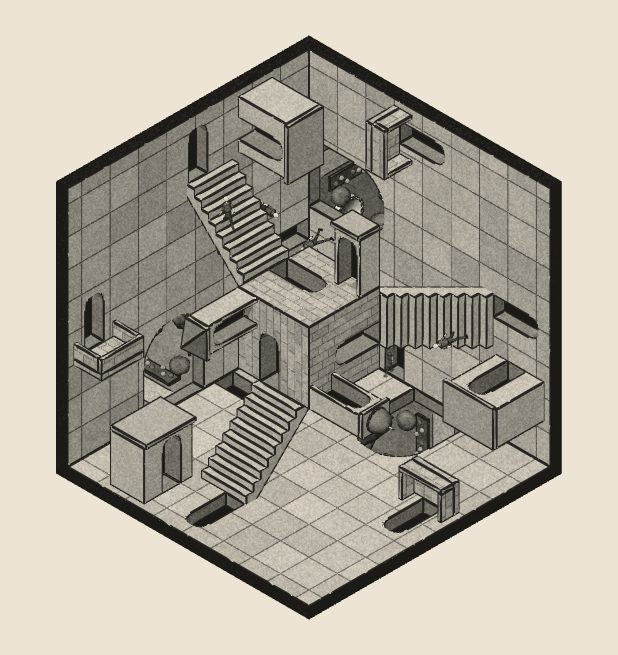
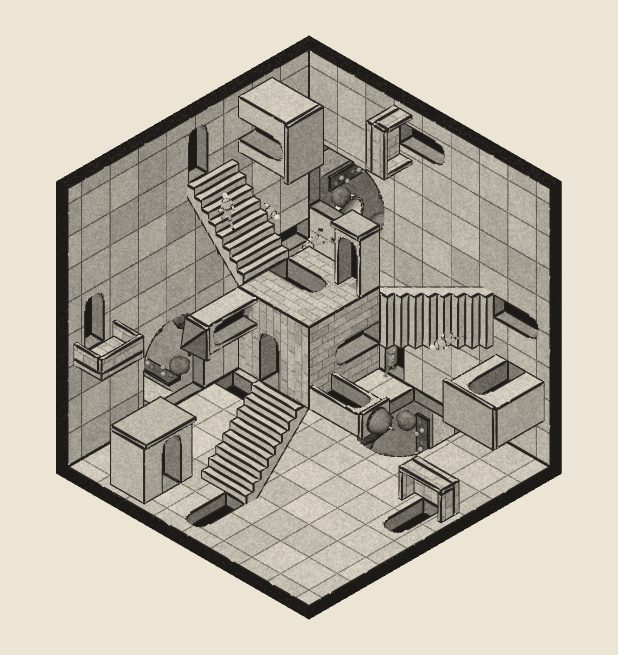
WIP: snapshot of illustrations still being built
Claude-Session: https://claude.ai/code/session_014TAyedqHqZJAaDXf4p7BDh

diff --git a/illusions/sugihara/src/tube.js b/illusions/sugihara/src/tube.js
@@ -23,7 +23,8 @@ export function rimPoint(r, y0, th, x, back) {
     : [x, y0 + (t * (s - r)) / 2, (s + r) / 2];
 }
 
-// The closed rim, counter-clockwise seen from above, as samples
+// The closed rim, as samples (front half from +x to −x, left side, back half,
+// right side),
 // { p:[x,y,z], n:[nx,0,nz] (outward footprint normal), corner } .
 export function rimCurve(r, y0, th, n = 48, nSide = 6) {
   const pts = [];
@@ -87,19 +88,19 @@ export function buildTube(b, r, y0, th, wall, s, sIn) {
     const u0 = arc[i], u1 = arc[i + 1];
     // a vertical ink line where the straight sides meet the curved halves
     const edgeA = A.corner ? 1 : 0, edgeB = B.corner ? 1 : 0;
-    // outer wall: counter-clockwise seen from outside: bottom i, bottom j, top j, top i
+    // outer wall (the curve runs clockwise seen from above, so B comes first)
     b.quad(
-      [A.p[0], 0, A.p[2]], [B.p[0], 0, B.p[2]], B.p, A.p, s, [1, edgeB, 1, edgeA],
-      { n: [A.n, B.n, B.n, A.n], uv: [[u0, 0], [u1, 0], [u1, B.p[1]], [u0, A.p[1]]] },
+      [B.p[0], 0, B.p[2]], [A.p[0], 0, A.p[2]], A.p, B.p, s, [1, edgeA, 1, edgeB],
+      { n: [B.n, A.n, A.n, B.n], uv: [[u1, 0], [u0, 0], [u0, A.p[1]], [u1, B.p[1]]] },
     );
     // inner wall, facing in
     const ni = (q) => [-q.n[0], 0, -q.n[2]];
     b.quad(
-      [Bi.p[0], 0, Bi.p[2]], [Ai.p[0], 0, Ai.p[2]], Ai.p, Bi.p, sIn, [0, edgeA, 1, edgeB],
-      { n: [ni(Bi), ni(Ai), ni(Ai), ni(Bi)], uv: [[u1, 0], [u0, 0], [u0, Ai.p[1]], [u1, Bi.p[1]]] },
+      [Ai.p[0], 0, Ai.p[2]], [Bi.p[0], 0, Bi.p[2]], Bi.p, Ai.p, sIn, [0, edgeB, 1, edgeA],
+      { n: [ni(Ai), ni(Bi), ni(Bi), ni(Ai)], uv: [[u0, 0], [u1, 0], [u1, Bi.p[1]], [u0, Ai.p[1]]] },
     );
     // rim band
-    b.quad(A.p, B.p, Bi.p, Ai.p, s, [1, 0, 1, 0]);
+    b.quad(B.p, A.p, Ai.p, Bi.p, s, [1, 0, 1, 0]);
   }
   return out;
 }

diff --git a/illusions/relativity/src/ink.js b/illusions/relativity/src/ink.js
@@ -136,7 +136,7 @@ ${LITHO}
 void main() {
   vec3 n = normalize(vN);
   float diff = max(dot(n, uLight), 0.0);
-  float shade = 0.36 + 0.66 * diff;
+  float shade = 0.46 + 0.58 * diff;
   float pat = floor(vM.x + 0.5);
   vec2 uv = vUV;
   float fw = max(fwidth(uv.x), fwidth(uv.y));

diff --git a/illusions/relativity/bundle.js b/illusions/relativity/bundle.js
@@ -99,7 +99,7 @@ ${yo}
 void main() {
   vec3 n = normalize(vN);
   float diff = max(dot(n, uLight), 0.0);
-  float shade = 0.36 + 0.66 * diff;
+  float shade = 0.46 + 0.58 * diff;
   float pat = floor(vM.x + 0.5);
   vec2 uv = vUV;
   float fw = max(fwidth(uv.x), fwidth(uv.y));
